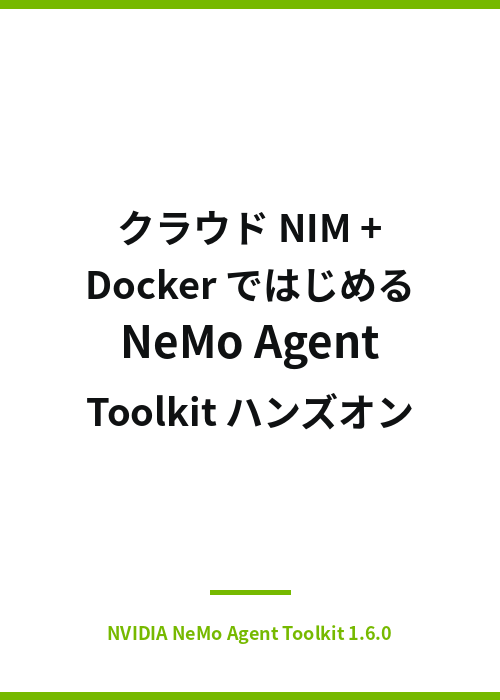
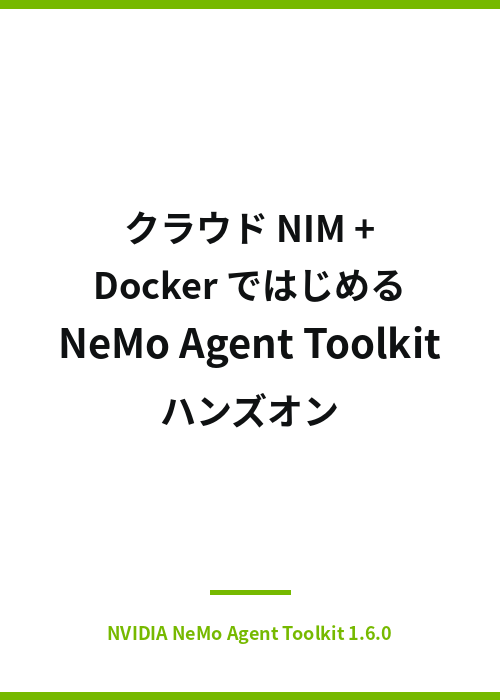
chore(cover): NeMo Agent Toolkit を 1 行に再配置

Changed region(s): [[0.12, 0.3, 0.9, 0.54], [0.18, 0.54, 0.84, 0.63], [0.24, 0.3, 0.45, 0.36]]

diff --git a/scripts/generate_cover.py b/scripts/generate_cover.py
@@ -24,26 +24,26 @@ FONT_PATH = "/usr/share/fonts/opentype/noto/NotoSansCJK-Bold.ttc"
 
 
 def draw_title(draw: ImageDraw.ImageDraw) -> None:
-    """タイトルを 4 行に分けて中央配置."""
+    """タイトルを 4 行に分けて中央配置.
+
+    "NeMo Agent Toolkit" は 1 行に収まる最大サイズで強調.
+    """
     title_lines = [
-        ("クラウド NIM +", 38),
-        ("Docker ではじめる", 38),
-        ("NeMo Agent", 44),
-        ("Toolkit ハンズオン", 38),
+        ("クラウド NIM +", 36),
+        ("Docker ではじめる", 36),
+        ("NeMo Agent Toolkit", 40),
+        ("ハンズオン", 36),
     ]
 
-    # 各行を順に縦並び（中央に来るよう total height を計算してから配置）
     fonts = [ImageFont.truetype(FONT_PATH, size=size, index=2) for _, size in title_lines]
     line_heights = []
     for line, font in zip(title_lines, fonts, strict=True):
         bbox = font.getbbox(line[0])
         line_heights.append(bbox[3] - bbox[1])
 
-    # 行間
-    line_gap = 22
+    line_gap = 24
     total_height = sum(line_heights) + line_gap * (len(title_lines) - 1)
 
-    # 縦中央 + 少し上に寄せる（下部にアクセントスペース）
     y = (HEIGHT - total_height) // 2 - 30
 
     for (text, _), font, h in zip(title_lines, fonts, line_heights, strict=True):
